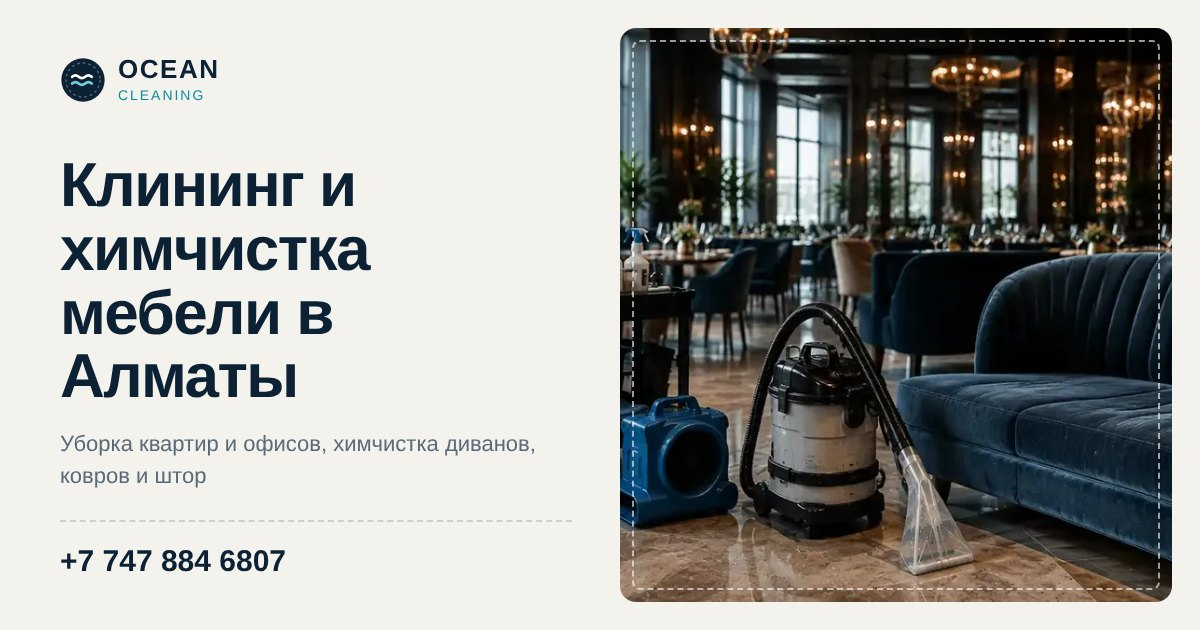
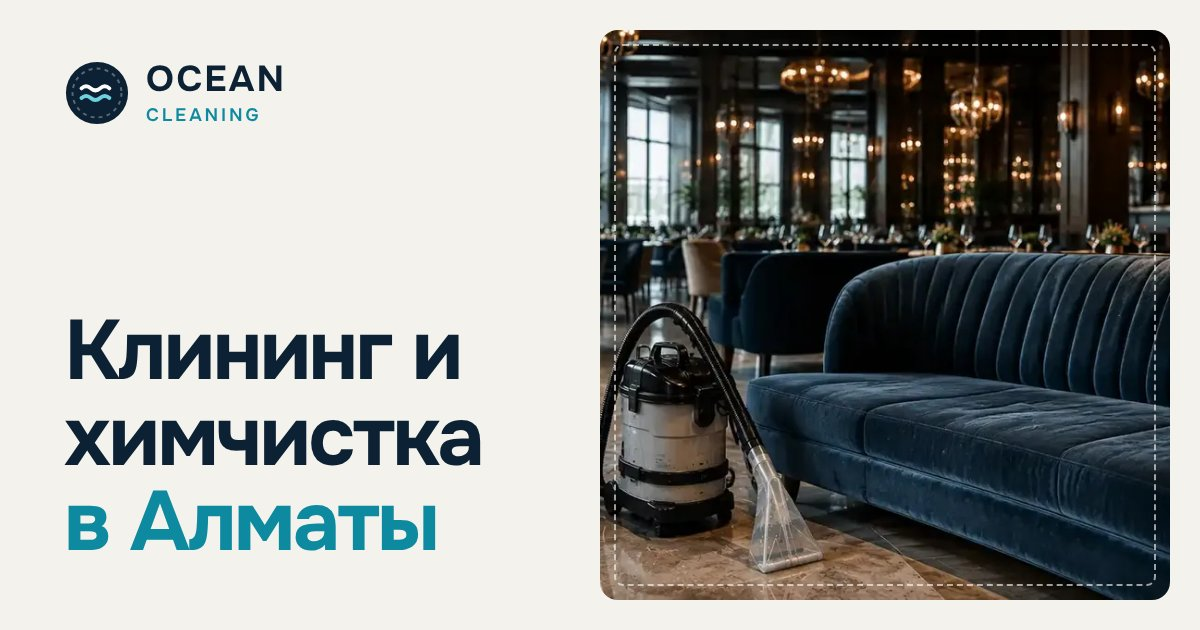
Add files via upload

diff --git a/podderzhivayushchaya-uborka.html b/podderzhivayushchaya-uborka.html
@@ -18,7 +18,10 @@
 <meta property="og:title" content="Поддерживающая уборка квартир в Алматы — регулярный клининг по графику | Ocean Cleaning">
 <meta property="og:description" content="Регулярная поддерживающая уборка квартир и домов в Алматы: раз в неделю, раз в две недели или по вашему графику. Пыль, полы, кухня и санузлы. Тел. +7 747 884 6807">
 <meta property="og:url" content="https://ocean-cleaning.kz/podderzhivayushchaya-uborka.html">
-<meta property="og:image" content="https://ocean-cleaning.kz/images/og-cover.jpg">
+<meta property="og:image" content="https://ocean-cleaning.kz/images/og/podderzhivayushchaya-uborka.jpg">
+<meta property="og:image:width" content="1200">
+<meta property="og:image:height" content="630">
+<meta property="og:image:alt" content="Поддерживающая уборка квартир в Алматы — регулярный клининг по графику | Ocean Cleaning">
 <meta name="twitter:card" content="summary_large_image">
 <link rel="icon" href="images/favicon.svg" type="image/svg+xml">
 <link rel="icon" href="images/favicon.png" type="image/png">

diff --git a/uborka-posle-remonta.html b/uborka-posle-remonta.html
@@ -18,7 +18,10 @@
 <meta property="og:title" content="Уборка после ремонта в Алматы — строительная пыль, затирка, краска | Ocean Cleaning">
 <meta property="og:description" content="Уборка квартир, домов и офисов после ремонта в Алматы: строительная пыль, остатки затирки, краски и скотча, окна и сантехника. Выезд в день заявки. Тел. +7 747 884 6807">
 <meta property="og:url" content="https://ocean-cleaning.kz/uborka-posle-remonta.html">
-<meta property="og:image" content="https://ocean-cleaning.kz/images/og-cover.jpg">
+<meta property="og:image" content="https://ocean-cleaning.kz/images/og/uborka-posle-remonta.jpg">
+<meta property="og:image:width" content="1200">
+<meta property="og:image:height" content="630">
+<meta property="og:image:alt" content="Уборка после ремонта в Алматы — строительная пыль, затирка, краска | Ocean Cleaning">
 <meta name="twitter:card" content="summary_large_image">
 <link rel="icon" href="images/favicon.svg" type="image/svg+xml">
 <link rel="icon" href="images/favicon.png" type="image/png">

diff --git a/uborka-ofisov.html b/uborka-ofisov.html
@@ -18,7 +18,10 @@
 <meta property="og:title" content="Уборка офисов в Алматы — ежедневный и разовый клининг по договору | Ocean Cleaning">
 <meta property="og:description" content="Клининг офисов и бизнес-центров в Алматы: ежедневная, разовая и генеральная уборка, химчистка офисной мебели и ковролина. Договор, безнал, счёт, АВР, ЭСФ. Тел. +7 747 884 6807">
 <meta property="og:url" content="https://ocean-cleaning.kz/uborka-ofisov.html">
-<meta property="og:image" content="https://ocean-cleaning.kz/images/og-cover.jpg">
+<meta property="og:image" content="https://ocean-cleaning.kz/images/og/uborka-ofisov.jpg">
+<meta property="og:image:width" content="1200">
+<meta property="og:image:height" content="630">
+<meta property="og:image:alt" content="Уборка офисов в Алматы — ежедневный и разовый клининг по договору | Ocean Cleaning">
 <meta name="twitter:card" content="summary_large_image">
 <link rel="icon" href="images/favicon.svg" type="image/svg+xml">
 <link rel="icon" href="images/favicon.png" type="image/png">

diff --git a/generalnaya-uborka.html b/generalnaya-uborka.html
@@ -18,7 +18,10 @@
 <meta property="og:title" content="Генеральная уборка квартир и домов в Алматы — клининг под ключ | Ocean Cleaning">
 <meta property="og:description" content="Генеральная уборка квартир, домов и коттеджей в Алматы: кухня, санузлы, окна изнутри, мебель и полы. Свой инвентарь и химия, выезд по всем районам. Тел. +7 747 884 6807">
 <meta property="og:url" content="https://ocean-cleaning.kz/generalnaya-uborka.html">
-<meta property="og:image" content="https://ocean-cleaning.kz/images/og-cover.jpg">
+<meta property="og:image" content="https://ocean-cleaning.kz/images/og/generalnaya-uborka.jpg">
+<meta property="og:image:width" content="1200">
+<meta property="og:image:height" content="630">
+<meta property="og:image:alt" content="Генеральная уборка квартир и домов в Алматы — клининг под ключ | Ocean Cleaning">
 <meta name="twitter:card" content="summary_large_image">
 <link rel="icon" href="images/favicon.svg" type="image/svg+xml">
 <link rel="icon" href="images/favicon.png" type="image/png">

diff --git a/himchistka-kovrolina.html b/himchistka-kovrolina.html
@@ -18,7 +18,10 @@
 <meta property="og:title" content="Химчистка ковролина в Алматы — чистка ковролина в залах и офисах | Ocean Cleaning">
 <meta property="og:description" content="Химчистка ковролина в Алматы: рестораны, отели, офисы и бизнес-центры. Расчёт по площади, работа в нерабочее время, договор. Тел. +7 747 884 6807">
 <meta property="og:url" content="https://ocean-cleaning.kz/himchistka-kovrolina.html">
-<meta property="og:image" content="https://ocean-cleaning.kz/images/og-cover.jpg">
+<meta property="og:image" content="https://ocean-cleaning.kz/images/og/himchistka-kovrolina.jpg">
+<meta property="og:image:width" content="1200">
+<meta property="og:image:height" content="630">
+<meta property="og:image:alt" content="Химчистка ковролина в Алматы — чистка ковролина в залах и офисах | Ocean Cleaning">
 <meta name="twitter:card" content="summary_large_image">
 <link rel="icon" href="images/favicon.svg" type="image/svg+xml">
 <link rel="icon" href="images/favicon.png" type="image/png">

diff --git a/klining-dlya-horeca.html b/klining-dlya-horeca.html
@@ -18,7 +18,10 @@
 <meta property="og:title" content="Клининг для ресторанов и кафе в Алматы — договор, безнал | Ocean Cleaning">
 <meta property="og:description" content="Клининг и химчистка мебели для ресторанов, кафе и отелей в Алматы. Договор, безналичный расчёт, счёт, АВР, ЭСФ и акт. Работа в нерабочее время. Тел. +7 747 884 6807">
 <meta property="og:url" content="https://ocean-cleaning.kz/klining-dlya-horeca.html">
-<meta property="og:image" content="https://ocean-cleaning.kz/images/og-cover.jpg">
+<meta property="og:image" content="https://ocean-cleaning.kz/images/og/klining-dlya-horeca.jpg">
+<meta property="og:image:width" content="1200">
+<meta property="og:image:height" content="630">
+<meta property="og:image:alt" content="Клининг для ресторанов и кафе в Алматы — договор, безнал | Ocean Cleaning">
 <meta name="twitter:card" content="summary_large_image">
 <link rel="icon" href="images/favicon.svg" type="image/svg+xml">
 <link rel="icon" href="images/favicon.png" type="image/png">

diff --git a/moyka-okon.html b/moyka-okon.html
@@ -18,7 +18,10 @@
 <meta property="og:title" content="Мытьё окон в Алматы — квартиры, дома, балконы и витрины | Ocean Cleaning">
 <meta property="og:description" content="Мытьё окон, балконов, витрин и стеклянных перегородок в Алматы. Стекло, рамы, подоконники и откосы без разводов. Квартиры, дома, офисы и заведения. Тел. +7 747 884 6807">
 <meta property="og:url" content="https://ocean-cleaning.kz/moyka-okon.html">
-<meta property="og:image" content="https://ocean-cleaning.kz/images/og-cover.jpg">
+<meta property="og:image" content="https://ocean-cleaning.kz/images/og/moyka-okon.jpg">
+<meta property="og:image:width" content="1200">
+<meta property="og:image:height" content="630">
+<meta property="og:image:alt" content="Мытьё окон в Алматы — квартиры, дома, балконы и витрины | Ocean Cleaning">
 <meta name="twitter:card" content="summary_large_image">
 <link rel="icon" href="images/favicon.svg" type="image/svg+xml">
 <link rel="icon" href="images/favicon.png" type="image/png">

diff --git a/himchistka-divanov.html b/himchistka-divanov.html
@@ -18,7 +18,10 @@
 <meta property="og:title" content="Химчистка диванов в Алматы на дому и в заведении — Ocean Cleaning">
 <meta property="og:description" content="Химчистка диванов в Алматы: экстракторная и сухая чистка, выведение пятен и запахов. Работаем на объекте, сушка 2–4 часа, договор для юрлиц. Тел. +7 747 884 6807">
 <meta property="og:url" content="https://ocean-cleaning.kz/himchistka-divanov.html">
-<meta property="og:image" content="https://ocean-cleaning.kz/images/og-cover.jpg">
+<meta property="og:image" content="https://ocean-cleaning.kz/images/og/himchistka-divanov.jpg">
+<meta property="og:image:width" content="1200">
+<meta property="og:image:height" content="630">
+<meta property="og:image:alt" content="Химчистка диванов в Алматы на дому и в заведении — Ocean Cleaning">
 <meta name="twitter:card" content="summary_large_image">
 <link rel="icon" href="images/favicon.svg" type="image/svg+xml">
 <link rel="icon" href="images/favicon.png" type="image/png">

diff --git a/himchistka-kovrov.html b/himchistka-kovrov.html
@@ -18,7 +18,10 @@
 <meta property="og:title" content="Химчистка ковров в Алматы — чистка ковров на объекте | Ocean Cleaning">
 <meta property="og:description" content="Химчистка ковров в Алматы: шерсть, синтетика, ручная работа. Чистка на объекте, выведение пятен и запахов, договор для юрлиц. Тел. +7 747 884 6807">
 <meta property="og:url" content="https://ocean-cleaning.kz/himchistka-kovrov.html">
-<meta property="og:image" content="https://ocean-cleaning.kz/images/og-cover.jpg">
+<meta property="og:image" content="https://ocean-cleaning.kz/images/og/himchistka-kovrov.jpg">
+<meta property="og:image:width" content="1200">
+<meta property="og:image:height" content="630">
+<meta property="og:image:alt" content="Химчистка ковров в Алматы — чистка ковров на объекте | Ocean Cleaning">
 <meta name="twitter:card" content="summary_large_image">
 <link rel="icon" href="images/favicon.svg" type="image/svg+xml">
 <link rel="icon" href="images/favicon.png" type="image/png">

diff --git a/udalenie-pyaten-i-zapahov.html b/udalenie-pyaten-i-zapahov.html
@@ -18,7 +18,10 @@
 <meta property="og:title" content="Удаление пятен и запахов в Алматы — озонирование | Ocean Cleaning">
 <meta property="og:description" content="Удаление сложных пятен и запахов в Алматы: кофе, вино, жир, следы животных, табак и сырость. Пятновыведение и озонирование. Тел. +7 747 884 6807">
 <meta property="og:url" content="https://ocean-cleaning.kz/udalenie-pyaten-i-zapahov.html">
-<meta property="og:image" content="https://ocean-cleaning.kz/images/og-cover.jpg">
+<meta property="og:image" content="https://ocean-cleaning.kz/images/og/udalenie-pyaten-i-zapahov.jpg">
+<meta property="og:image:width" content="1200">
+<meta property="og:image:height" content="630">
+<meta property="og:image:alt" content="Удаление пятен и запахов в Алматы — озонирование | Ocean Cleaning">
 <meta name="twitter:card" content="summary_large_image">
 <link rel="icon" href="images/favicon.svg" type="image/svg+xml">
 <link rel="icon" href="images/favicon.png" type="image/png">

diff --git a/himchistka-matrasov.html b/himchistka-matrasov.html
@@ -18,7 +18,10 @@
 <meta property="og:title" content="Химчистка матрасов в Алматы — чистка матрасов на дому | Ocean Cleaning">
 <meta property="og:description" content="Химчистка матрасов в Алматы: отели, хостелы, квартиры. Удаление пятен, пыли и запахов, обработка от пылевых клещей. Тел. +7 747 884 6807">
 <meta property="og:url" content="https://ocean-cleaning.kz/himchistka-matrasov.html">
-<meta property="og:image" content="https://ocean-cleaning.kz/images/og-cover.jpg">
+<meta property="og:image" content="https://ocean-cleaning.kz/images/og/himchistka-matrasov.jpg">
+<meta property="og:image:width" content="1200">
+<meta property="og:image:height" content="630">
+<meta property="og:image:alt" content="Химчистка матрасов в Алматы — чистка матрасов на дому | Ocean Cleaning">
 <meta name="twitter:card" content="summary_large_image">
 <link rel="icon" href="images/favicon.svg" type="image/svg+xml">
 <link rel="icon" href="images/favicon.png" type="image/png">

diff --git a/himchistka-kresel-i-stulev.html b/himchistka-kresel-i-stulev.html
@@ -18,7 +18,10 @@
 <meta property="og:title" content="Химчистка кресел и стульев в Алматы — Ocean Cleaning">
 <meta property="og:description" content="Химчистка кресел и стульев в Алматы: залы ресторанов и кафе, офисы, квартиры. Поштучный расчёт, работа на объекте, договор для юрлиц. Тел. +7 747 884 6807">
 <meta property="og:url" content="https://ocean-cleaning.kz/himchistka-kresel-i-stulev.html">
-<meta property="og:image" content="https://ocean-cleaning.kz/images/og-cover.jpg">
+<meta property="og:image" content="https://ocean-cleaning.kz/images/og/himchistka-kresel-i-stulev.jpg">
+<meta property="og:image:width" content="1200">
+<meta property="og:image:height" content="630">
+<meta property="og:image:alt" content="Химчистка кресел и стульев в Алматы — Ocean Cleaning">
 <meta name="twitter:card" content="summary_large_image">
 <link rel="icon" href="images/favicon.svg" type="image/svg+xml">
 <link rel="icon" href="images/favicon.png" type="image/png">
